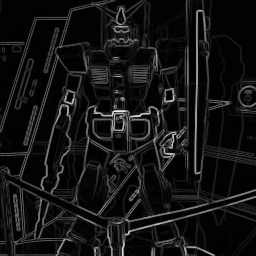
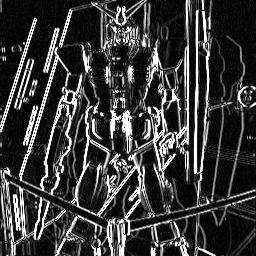
not yet

diff --git a/hw2/lawsFeatureExtraction.m b/hw2/lawsFeatureExtraction.m
@@ -1,0 +1,103 @@
+function FM = lawsFeatureExtraction(G)
+% ####################################################################### %
+% lawsFeatureExtraction: Using Laws' method for extracting features of a  %
+%                        given 2D image matrix                            %
+%                                                                         %
+%   Usage:                                                                %
+%       FM = lawsFeatureExtraction(G)                                     %
+%                                                                         %
+%   Reference:                                                            %
+%       [1] Page 19 of DIP_Lecture05_2016_Spring.pdf                      %
+% ####################################################################### %
+
+% define the 9 laws' masks
+L1 = [1, 2, 1; 2, 4, 2; 1, 2, 1] / 36;
+L2 = [1, 0, -1; 2, 0, -2; 1, 0, -1] / 12;
+L3 = [-1, 2, -1; -2, 4, -2; -1, 2, -1] / 12;
+L4 = [-1, -2, -1; 0, 0, 0; 1, 2, 1] / 12;
+L5 = [1, 0, -1; 0, 0, 0; -1, 0, 1] / 12;
+L6 = [-1, 2, -1; 0, 0, 0; 1, -2, 1] / 4;
+L7 = [-1, -2, -1; 2, 4, 2; -1, -2, -1] / 12;
+L8 = [-1, 0, 1; 2, 0, -2; -1, 0, 1] / 4;
+L9 = [1, -2, 1; -2, 4, -2; 1, -2, 1] / 4;
+
+[m, n] = size(G);
+
+% expand G such that the resulting 9 matrices will have the same size as G
+G_expand = zeros(m + 2, n + 2);
+G_expand(1, 2:end - 1) = G(1, :);
+G_expand(end, 2:end - 1) = G(end, :);
+G_expand(2:end - 1, 1) = G(:, 1);
+G_expand(2:end - 1, end) = G(:, end);
+G_expand(1, 1) = G(1, 1);
+G_expand(1, end) = G(1, end);
+G_expand(end, 1) = G(end, 1);
+G_expand(end, end) = G(end, end);
+G_expand(2:end - 1, 2:end - 1) = G;
+
+% convolve G_expand with each of the 9 laws' masks one by one and store
+% them in M1, M2, ..., M9
+M1 = zeros(m, n);
+for i = 1:m
+    for j = 1:n
+        M1(i, j) = sum(sum(G_expand(i:i + 2, j:j + 2) .* L1));
+    end
+end
+
+M2 = zeros(m, n);
+for i = 1:m
+    for j = 1:n
+        M2(i, j) = sum(sum(G_expand(i:i + 2, j:j + 2) .* L2));
+    end
+end
+
+M3 = zeros(m, n);
+for i = 1:m
+    for j = 1:n
+        M3(i, j) = sum(sum(G_expand(i:i + 2, j:j + 2) .* L3));
+    end
+end
+
+M4 = zeros(m, n);
+for i = 1:m
+    for j = 1:n
+        M4(i, j) = sum(sum(G_expand(i:i + 2, j:j + 2) .* L4));
+    end
+end
+
+M5 = zeros(m, n);
+for i = 1:m
+    for j = 1:n
+        M5(i, j) = sum(sum(G_expand(i:i + 2, j:j + 2) .* L5));
+    end
+end
+
+M6 = zeros(m, n);
+for i = 1:m
+    for j = 1:n
+        M6(i, j) = sum(sum(G_expand(i:i + 2, j:j + 2) .* L6));
+    end
+end
+
+M7 = zeros(m, n);
+for i = 1:m
+    for j = 1:n
+        M7(i, j) = sum(sum(G_expand(i:i + 2, j:j + 2) .* L7));
+    end
+end
+
+M8 = zeros(m, n);
+for i = 1:m
+    for j = 1:n
+        M8(i, j) = sum(sum(G_expand(i:i + 2, j:j + 2) .* L8));
+    end
+end
+
+M9 = zeros(m, n);
+for i = 1:m
+    for j = 1:n
+        M9(i, j) = sum(sum(G_expand(i:i + 2, j:j + 2) .* L9));
+    end
+end
+
+% now we have M1 ~ M9

diff --git a/hw2/README.m b/hw2/README.m
@@ -27,7 +27,7 @@ S8 = readraw('./raw/sample8.raw');
 
 % create a directory called 'rslt_images' and all the output .png figures
 % will be stored under it
-mkdir('./', 'rslt_images');
+% mkdir('./', 'rslt_images');
 
 % do not display figures during execution
 fig = figure;
@@ -39,22 +39,20 @@ set(fig, 'Visible', 'off');
 % ####################################################################### %
 % Implementation 1: Perform Sobel edge detection on S1, S2, and S3        %
 % M-file name: sobelEdgeDetection.m                                       %
-% Usage: EM1 = sobelEdgeDetection(S1)                                     %
-%        EM2 = sobelEdgeDetection(S2)                                     %
-%        EM3 = sobelEdgeDetection(S3)                                     %
+% Usage: [Gr, Gc, EM] = sobelEdgeDetection(G)                             %
 % Output: The resultant edge map(EM)                                      %
 % ####################################################################### %
 
 fprintf('\nPerforming Sobel edge detection on sample1.raw and the resultant edge map will be stored as sample1.sobel.png ...\n');
-EM1 = sobelEdgeDetection(S1);
+[no_use0, no_use1, EM1] = sobelEdgeDetection(S1);
 imwrite(uint8(EM1), './rslt_images/sample1.sobel.png');
 
 fprintf('\nPerforming Sobel edge detection on sample2.raw and the resultant edge map will be stored as sample2.sobel.png ...\n');
-EM2 = sobelEdgeDetection(S2);
+[no_use2, no_use3, EM2] = sobelEdgeDetection(S2);
 imwrite(uint8(EM2), './rslt_images/sample2.sobel.png');
 
 fprintf('\nPerforming Sobel edge detection on sample3.raw and the resultant edge map will be stored as sample3.sobel.png ...\n');
-EM3 = sobelEdgeDetection(S3);
+[no_use4, no_use5, EM3] = sobelEdgeDetection(S3);
 imwrite(uint8(EM3), './rslt_images/sample3.sobel.png');
 
 
@@ -78,3 +76,4 @@ imwrite(uint8(EM3), './rslt_images/sample3.sobel.png');
 % Usage:
 % Output:
 % ####################################################################### %
+

diff --git a/hw2/sobelEdgeDetection.m b/hw2/sobelEdgeDetection.m
@@ -1,13 +1,13 @@
-function EM = sobelEdgeDetection(G)
+function [Gr, Gc, EM] = sobelEdgeDetection(G)
 % ####################################################################### %
 % sobelEdgeDetection: Perform Sobel edge detection on the given 2D image  %
 %                     matrix                                              %
 %                                                                         %
 %   Usage:                                                                %
-%       EM = sobelEdgeDetection(G)                                        %
+%       [Gr, Gc, EM] = sobelEdgeDetection(G)                              %
 %                                                                         %
 %   Reference:                                                            %
-%       Page 15 of DIP_Lecture03_2016_Spring.pdf                          %
+%       [1] https://en.wikipedia.org/wiki/Sobel_operator                  %
 % ####################################################################### %
 
 [m, n] = size(G);
@@ -28,18 +28,17 @@ G_expand(2:end - 1, 2:end - 1) = G;
 Gr = zeros(m, n);
 Gc = zeros(m, n);
 
+% define the two sobel filters
+Kr = [-1, 0, 1; -2, 0, 2; -1, 0, 1];
+Kc = [1, 2, 1; 0, 0, 0; -1, -2, -1];
+
 % perform sobel edge detection
 for i = 1:m
     for j = 1:n
-        Gr(i, j) = (G_expand(i, j + 2) + 2 * G_expand(i + 1, j + 2) + G_expand(i + 2, j + 2)) ...
-                 - (G_expand(i, j) + 2 * G_expand(i + 1, j) + G_expand(i + 2, j));
-        Gc(i, j) = (G_expand(i, j) + 2 * G_expand(i, j + 1) + G_expand(i, j + 2)) ...
-                 - (G_expand(i + 2, j) + 2 * G_expand(i + 2, j + 1) + G_expand(i + 2, j + 2));
+        Gr(i, j) = sum(sum(G_expand(i: i + 2, j:j + 2) .* Kr));
+        Gc(i, j) = sum(sum(G_expand(i: i + 2, j:j + 2) .* Kc));
     end
 end
-
-Gr = Gr / 4;
-Gc = Gc / 4;
 
 % compute and store the gradient magnitude in EM (edge map)
 EM = (Gr .^ 2 + Gc .^ 2) .^ 0.5;
